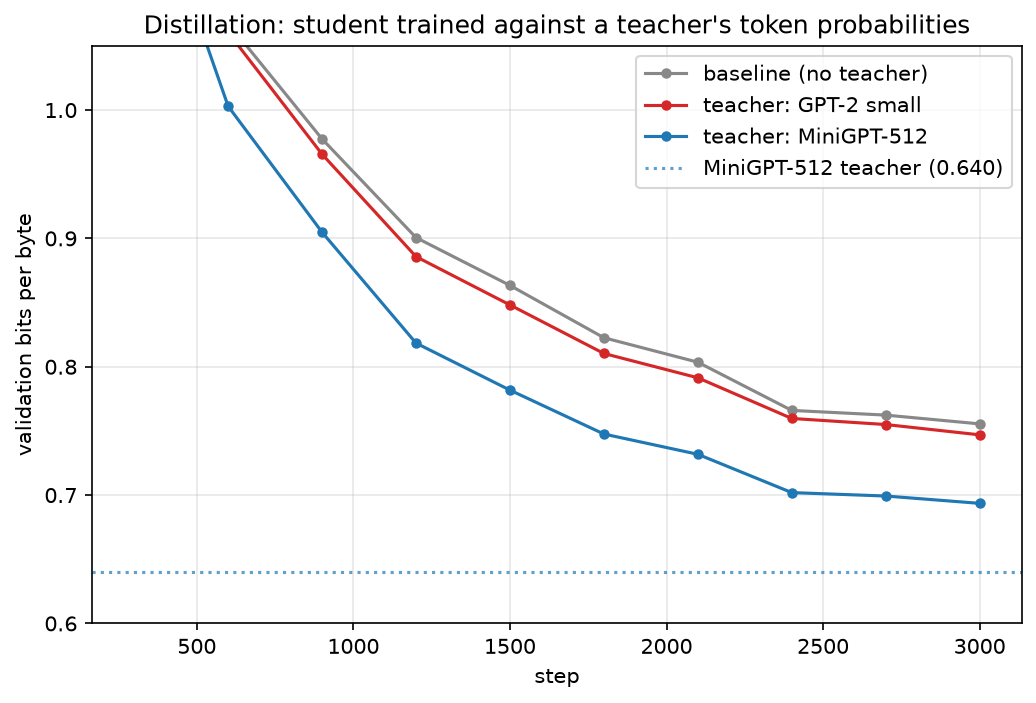
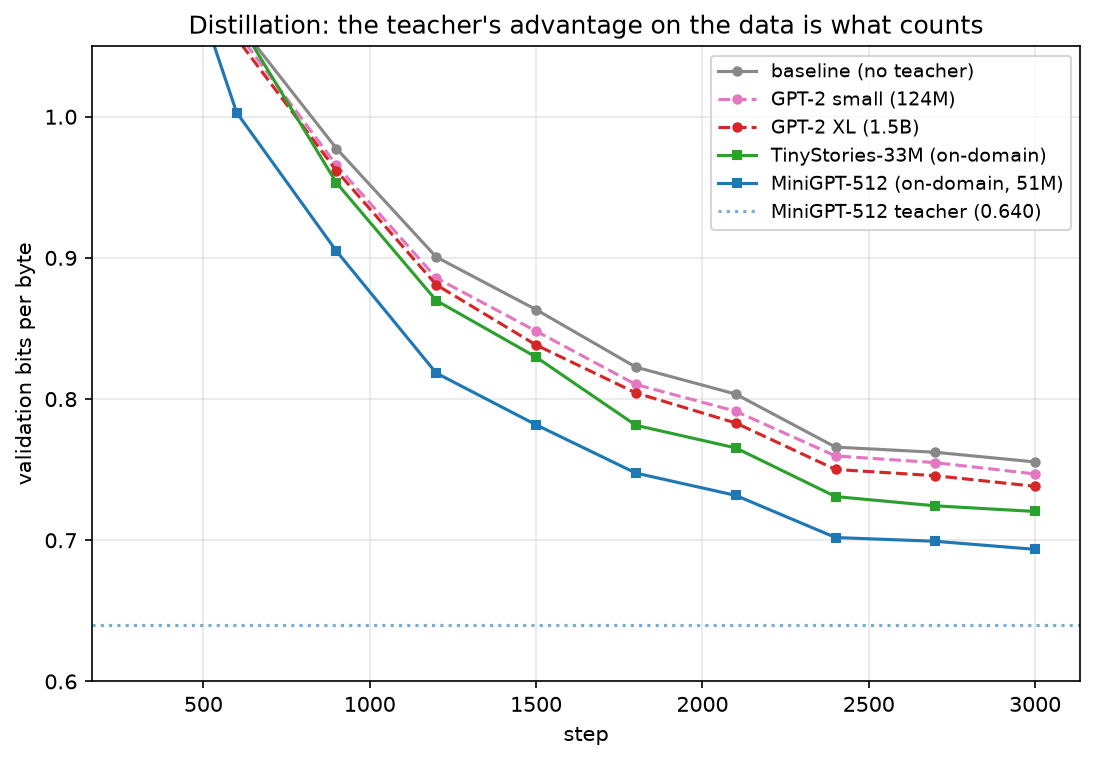
MiniGPT 5: add GPT-2 XL and TinyStories-33M teachers; explain the tokeniser wall
Adds two more distillation teachers - GPT-2 XL (1.5B) and the released
roneneldan/TinyStories-33M - and each teacher's own bits/byte. New section
spelling out why the teacher cannot be Qwen3/Llama/a frontier model: logit
distillation needs an identical tokeniser, and the teacher runs every step
in the same memory. Result: GPT-2 XL barely helps (still worse at the task
than the 30M student); a 33M on-domain model out-teaches it.

diff --git a/content/minigpt5.md b/content/minigpt5.md
@@ -1,7 +1,7 @@
 ---
 title: "MiniGPT"
 part: 5
-description: "Knowledge-distillation pre-training at toy scale — training a small MiniGPT against the token-probability targets of a larger one, the trick behind Llama 3.2 1B and 3B, and finding out that it only helps when the teacher is actually better at your data"
+description: "Knowledge-distillation pre-training at toy scale — training a small MiniGPT against a larger model's token probabilities, why the teacher cannot be Qwen3 or Llama, and the finding that a 33M model that knows the domain beats a 1.5B model that does not"
 date: "2026-09-10"
 categories: ["AI"]
 image: "/assets/images/minigpt5/posts-meta.svg"
@@ -14,66 +14,86 @@ Every model in this series so far has learned the same way: predict the next tok
 
 The intuition: the one-hot label says "the next word is *cat*". The teacher's distribution says "*cat* 0.6, *dog* 0.2, *kitten* 0.1, *the* 0.001, …" — which also tells the student that *dog* and *kitten* were reasonable and *the* was not. A richer signal per token, and the reason a distilled small model can learn faster than the same model trained from scratch on raw text.
 
-This post does the same thing at a scale that runs on a Mac — and the result depends entirely on which teacher you pick.
+This post does the same thing at a scale that runs on a Mac.
 
-## The setup
+## Why the teacher is not Qwen3, or Llama, or anything current
 
-- **Student**: the [part 3](/posts/minigpt3/) MiniGPT with the GPT-2 tokeniser — 30M parameters.
-- **Teachers**: two, to see what matters. First GPT-2 small (124M), loaded frozen through `mlx-lm`. Then a MiniGPT I trained myself on the same TinyStories data — dimension 512, 8 layers, 51M parameters — which is the Llama 3.1→3.2 situation exactly: same family, same data, more capacity.
-- **Shared vocabulary**: distillation on logits needs the teacher and student to agree on what token *i* means. GPT-2's byte-level BPE and the `tiktoken` `gpt2` encoding this series has used since [part 2](/posts/minigpt2/) are the same 50,257 tokens with the same IDs, so the teacher's logit vector lines up with the student's index for index.
+The obvious idea is to grab the best model you can run — Qwen3-8B, say — and distil from that. It does not work here, for two reasons, and the first is absolute.
 
-The loss adds a distillation term to the ordinary cross-entropy:
+**Logit distillation needs the teacher and student to share the exact same tokeniser.** The distillation loss is a KL divergence between the teacher's probability vector over the vocabulary and the student's, compared slot by slot:
 
 ```python
-ce  = cross_entropy(student_logits, next_token)
-t_logp = log_softmax(teacher_logits / T)          # T = 2, softens the distribution
-s_logp = log_softmax(student_logits / T)
-kl  = (exp(t_logp) * (t_logp - s_logp)).sum(-1).mean()
-loss = alpha * ce + (1 - alpha) * T**2 * kl       # alpha = 0.5
+kl = (exp(log_softmax(teacher_logits / T)) *
+      (log_softmax(teacher_logits / T) - log_softmax(student_logits / T))).sum(-1)
 ```
 
-`alpha` trades the hard label against the teacher. `T` is the distillation temperature — dividing the logits by it before the softmax spreads probability onto the runner-up tokens, which is the part that carries the extra information. Everything is scored the same way as the rest of the series: cross-entropy on held-out text, in bits per byte.
+For that sum to mean anything, the teacher's entry `i` and the student's entry `i` have to be the *same token*. This student has used the GPT-2 byte-level BPE — 50,257 tokens — since [part 2](/posts/minigpt2/). Qwen3 uses its own tokeniser (~151,000 tokens, different merges, different order); Llama 3 uses a 128,000-token tiktoken; Gemma, Mistral and Phi each have their own. None of their logit vectors line up with this student's. Using one would mean either re-tokenising the whole project with that model's tokeniser and giving the 30M student a 128–150k-row embedding table — larger than the rest of the model, and a redo of parts 2–4 — or doing cross-tokeniser distillation, which matches tokens by their text and projects one probability space onto the other, and is a research area in its own right.
+
+**The teacher runs a forward pass on every training batch, in the same 64 GB.** Even with the tokeniser solved: a frozen Qwen3-8B forward on every step, sharing unified memory with the student, its optimiser state, and two `[batch, 256, vocab]` logit tensors, would dominate the step. As it is, swapping GPT-2 small (124M) for GPT-2 XL (1.5B) stretched the run from 25 minutes to nearly two hours. Qwen3-8B is five times larger again; Qwen3-32B would not fit for training-loop use at all.
+
+So the teacher had to be a model in the **GPT-2 tokeniser family**, small enough to run every step. That family is larger than just GPT-2: GPT-Neo, GPT-J, Cerebras-GPT and the released TinyStories models all use the same 50,257-token vocabulary. Whether any of them is *good enough at the task to teach* is the actual experiment.
+
+## The lineup
+
+- **Student**: the [part 3](/posts/minigpt3/) MiniGPT with the GPT-2 tokeniser — 30M parameters.
+- **GPT-2 small (124M)** and **GPT-2 XL (1.5B)** — generalists trained on web text, loaded frozen through `mlx-lm`.
+- **`roneneldan/TinyStories-33M`** — the largest model released with the TinyStories paper, trained to convergence on the whole dataset. GPT-Neo architecture, GPT-2 vocabulary. `mlx-lm` has no GPT-Neo loader, so it runs as a frozen Torch teacher and its logits are handed across to the MLX student.
+- **MiniGPT-512 (51M)** — a wider MiniGPT I trained here on the same TinyStories slice for 5,000 steps. This is the Llama 3.1→3.2 setup: same family, same data, more capacity.
+
+The loss adds the distillation term to the ordinary cross-entropy:
+
+```python
+loss = alpha * cross_entropy(student, next_token)
+     + (1 - alpha) * T**2 * KL(softmax(teacher / T) || softmax(student / T))
+```
+
+with `alpha = 0.5` and temperature `T = 2`. Everything is scored the same way as the rest of the series — cross-entropy on held-out text, in bits per byte.
 
 ## Memory
 
-The teacher runs a full forward pass on every batch, and both models produce a `[batch, 256, 50257]` logit tensor — about 0.8 GB each in float32. With the teacher, the student, both sets of logits, and the backward pass, peak memory went from 5.4 GB for the plain run to 10.8–11.1 GB with a teacher. Comfortably inside 64 GB of unified memory, but it is why distillation pre-training runs on clusters at full scale: you are running two models to train one.
+Both models produce a `[16, 256, 50257]` logit tensor — about 0.8 GB each in float32 — and the teacher runs every step. Peak memory went from 5.4 GB for the plain run to 11 GB with GPT-2 small, and 17 GB with GPT-2 XL. Inside 64 GB, but it is why distillation pre-training runs on clusters at full scale: you are running two models to train one.
 
 ## What happened
 
-Three runs, 3,000 iterations each, same student, same data.
+Five runs, 3,000 iterations each, same student, same data.
 
 ![](assets/images/minigpt5/distill-runs.png)
-*The three runs. The teacher that helped is the one trained on the same data as the student*
+*The five runs. "Teacher bits/byte" is how well each teacher itself does on the held-out split*
 
 ![](assets/images/minigpt5/distill-curves.png)
-*Validation bits per byte from step 300 on. GPT-2 as teacher (red) sits on the no-teacher baseline; the MiniGPT-512 teacher (blue) pulls the student down toward its own level (dotted)*
+*Validation bits per byte from step 300. The two generalist teachers sit near the no-teacher baseline; the two domain-trained teachers pull the student well below it*
 
-| Run | Teacher | Teacher's own bits/byte | Student's best bits/byte | Minutes |
+| Teacher | Size | Teacher's own bits/byte | Student's best bits/byte | Minutes |
 |---|---|---|---|---|
-| Baseline | none | — | 0.7555 | 12.8 |
-| Distilled | GPT-2 small, 124M | ~1.0 on this data | 0.7469 | 25.1 |
-| Distilled | MiniGPT-512, 51M | 0.6397 | **0.6936** | 20.1 |
+| none (baseline) | — | — | 0.7555 | 12.8 |
+| GPT-2 small | 124M | 0.965 | 0.7469 | 25.1 |
+| GPT-2 XL | 1.5B | 0.799 | 0.7382 | 113.9 |
+| TinyStories-33M | 33M | **0.467** | 0.7204 | 23.5 |
+| MiniGPT-512 (trained here) | 51M | 0.644 | **0.6936** | 20.1 |
 
-**GPT-2 as a teacher did almost nothing.** It is four times the size of the student, but it is a generalist trained on web text, and it is *worse* at TinyStories than the student is — the student trains directly on these stories. Distilling from a teacher that knows less than you do about the target distribution cannot help, and an earlier run at a lower `alpha` (more weight on the teacher) actively hurt, landing at 0.78. At `alpha = 0.5` it came out a hair ahead of the baseline, 0.7469 against 0.7555 — within the run-to-run noise.
+**Scaling the generalist barely helped.** GPT-2 XL has twelve times the parameters of GPT-2 small. As a teacher it moved the student from 0.7469 to 0.7382 bits per byte — for four and a half times the training time. And the reason is in the third column: **GPT-2 XL, at 1.5B parameters, is still worse at TinyStories (0.799) than the 30M student trained on it (0.756).** A web-text generalist does not know this domain, and making it bigger does not fix that. A frontier model like Qwen3 would be a better generalist still — but the GPT-2 → GPT-2 XL step says the payoff from generalist scale, on this task, is small, quite apart from the tokeniser wall.
 
-**The same-data teacher helped clearly.** The MiniGPT-512 I trained on TinyStories reaches 0.640 bits per byte — well below the student's 0.756 — and distilling from it pulled the student to 0.694, closing about half the gap to the teacher. It also got there faster: the distilled student passed the baseline's *final* (step 3,000) loss at around step 1,700, roughly 1.7× sooner, and then kept improving.
+**A domain-trained teacher helped a lot — even a tiny one.** `TinyStories-33M` is *smaller* than the student's transformer, but it read the whole TinyStories corpus to convergence, and it scores 0.467 bits per byte. Distilling from it pulled the student to 0.7204 — past both generalists, in 23 minutes.
 
-Not the "10× faster" figure from the big-model literature — that comes from teachers that are enormously more capable than the student and from training runs measured in trillions of tokens. At this scale, with a teacher about twice the student's effective capacity, distillation bought a 1.7× speed-up to the same quality and an 8% lower final loss.
+**The best teacher was the one built like the student, on the student's own training split.** `MiniGPT-512` scores 0.644 — a *worse* model than `TinyStories-33M` on paper — but distilling from it gave the best student, 0.6936. Two things it has that `TinyStories-33M` does not: the same architecture family as the student, so its probability distribution is a natural target to imitate, and training only on the 90% split, so the held-out set is genuinely held out for it too rather than partly memorised.
 
-The lesson is the one the numbers make unavoidable: **distillation is worth exactly as much as the teacher's advantage on your data.** A bigger teacher is not automatically a better one.
+The distilled `MiniGPT-512` student also learned faster — it passed the baseline's *final* (step 3,000) loss at around step 1,700, roughly 1.7× sooner, and kept improving. Not the "10× faster" of the big-model literature, which comes from teachers vastly more capable than the student; here, with a teacher about twice the student's effective capacity, it was a 1.7× speed-up and an 8% lower final loss.
+
+The lesson the table makes unavoidable: **distillation is worth the teacher's advantage on your data, not its size.** A 33M model that knows the domain out-taught a 1.5B model that does not.
 
 ## Generating text
 
 ![](assets/images/minigpt5/generation.png)
-*The baseline student and the MiniGPT-512-distilled student, same prompt*
+*The baseline student and the `MiniGPT-512`-distilled student, same prompt*
 
-The baseline student loses the thread — "he wanted to take his melon home from his eyes", a second character also called Tim, a melon that talks. The distilled student holds a scene: Tim, a friend called Sam, a lost cake, a search, a resolution, and then "the moral of the story is …" — the closing formula that TinyStories examples use and that the baseline never picked up. Both are still small models making small-model mistakes, but the distilled one writes a more coherent story, because it spent 3,000 steps being nudged toward the choices of a model that already could.
+The baseline student loses the thread — "he wanted to take his melon home from his eyes", a second character also called Tim, a melon that talks. The distilled student holds a scene: Tim, a friend called Sam, a lost cake, a search, a resolution, and then "the moral of the story is …", the closing formula TinyStories examples use and the baseline never picked up. Both are still small models making small-model mistakes, but the distilled one writes a more coherent story, because it spent 3,000 steps being nudged toward the choices of a model that already could.
 
 ## What I took from it
 
-- **The teacher has to be better than the student at the actual task.** GPT-2 small is bigger and more generally capable, and it was useless here because it is worse at TinyStories than a model trained on TinyStories. Size is not the qualification; relevant skill is.
-- **When the teacher is right, distillation both speeds up training and lowers the floor** — 1.7× faster to the baseline's final quality, then 8% past it.
-- **It costs about 2× memory and 1.6× wall-clock per step.** You are running two models to train one, which is why this is a datacentre technique at full scale.
+- **You cannot distil from a model with a different tokeniser** without re-tokenising your whole project or doing cross-tokeniser distillation. That rules out every current frontier model as a drop-in teacher — the field of eligible teachers is "models that use your student's exact vocabulary".
+- **A bigger generalist is not a better teacher.** GPT-2 XL is 12× GPT-2 small and still worse at the task than the student; distilling from it barely moved the loss and cost hours.
+- **A domain-matched teacher is worth it even when it is small.** The two on-domain teachers — one smaller than the student — both beat both generalists.
+- **Same architecture, same training split beats a stronger but mismatched teacher.** The best result came from the teacher most like the student.
 - **The student stays a small model.** Distillation changed how fast and how well it learned; it did not turn 30M parameters into something they are not.
 
 ## Try it yourself
@@ -81,14 +101,17 @@ The baseline student loses the thread — "he wanted to take his melon home from
 The code is in [github.com/Haddley/minigpt-series](https://github.com/Haddley/minigpt-series) under `part5/`:
 
 ```bash
-python train_distill.py --tag baseline --teacher none --alpha 1.0
-python train_distill.py --tag gpt2     --teacher gpt2 --alpha 0.5
-python train_teacher.py  --dim 512 --layers 8 --iters 5000
+python train_distill.py --tag baseline --teacher none    --alpha 1.0
+python train_distill.py --tag gpt2     --teacher gpt2     --alpha 0.5
+python train_distill.py --tag gpt2xl   --teacher gpt2-xl  --alpha 0.5
+python train_distill.py --tag ts33m    --teacher torch:roneneldan/TinyStories-33M --alpha 0.5
+python train_teacher.py --dim 512 --layers 8 --iters 5000
 python train_distill.py --tag big      --teacher runs/teacher.safetensors --alpha 0.5
+python eval_teacher.py  --teacher gpt2-xl     # each teacher's own bits/byte
 python figures.py
 ```
 
-Requires Apple Silicon; the GPT-2 teacher downloads from Hugging Face on first run.
+Requires Apple Silicon; the GPT-2 teachers download from Hugging Face on first run.
 
 [Part 6](/posts/minigpt6/) is the last one: sliding-window attention, to train on a longer context on the same Mac without the attention matrix filling memory.
 
